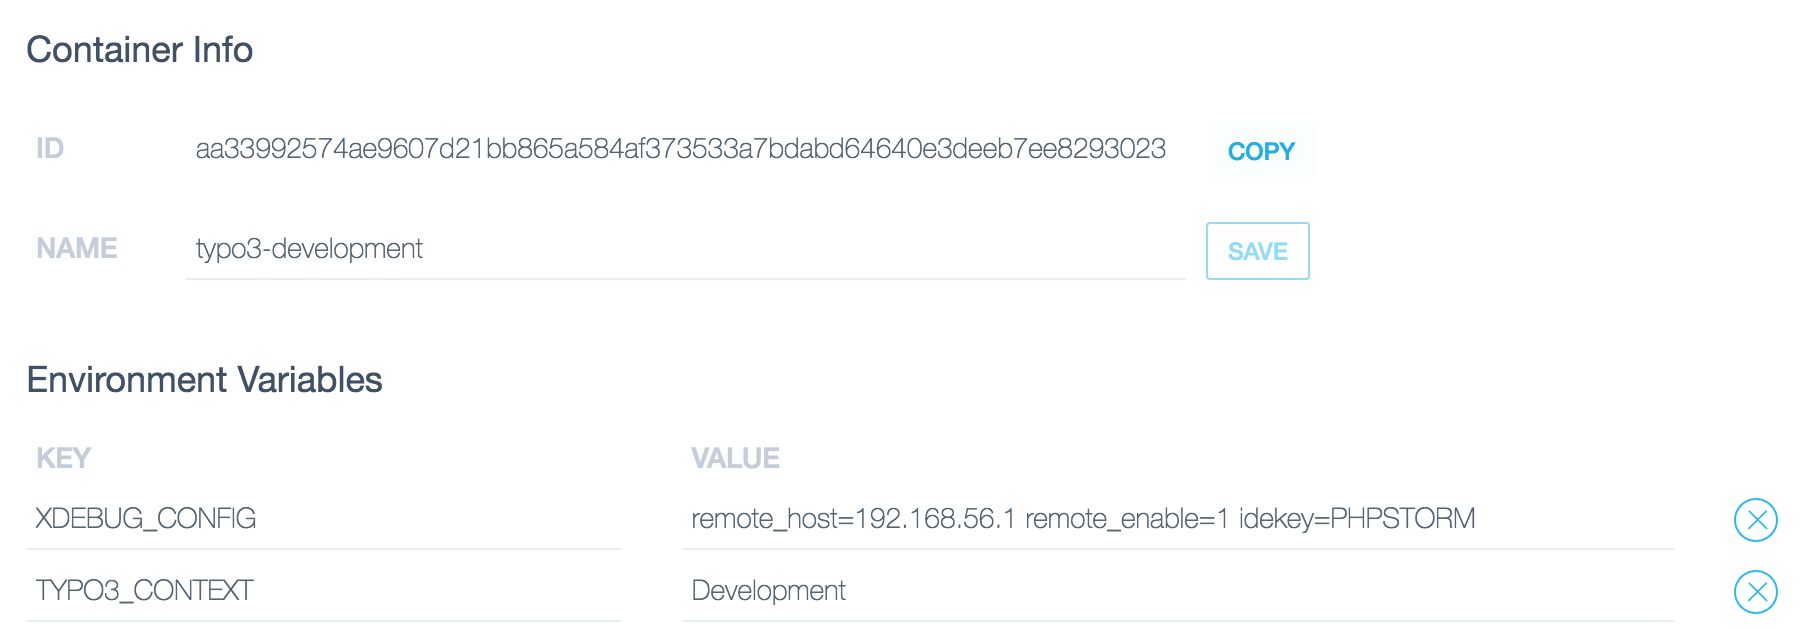
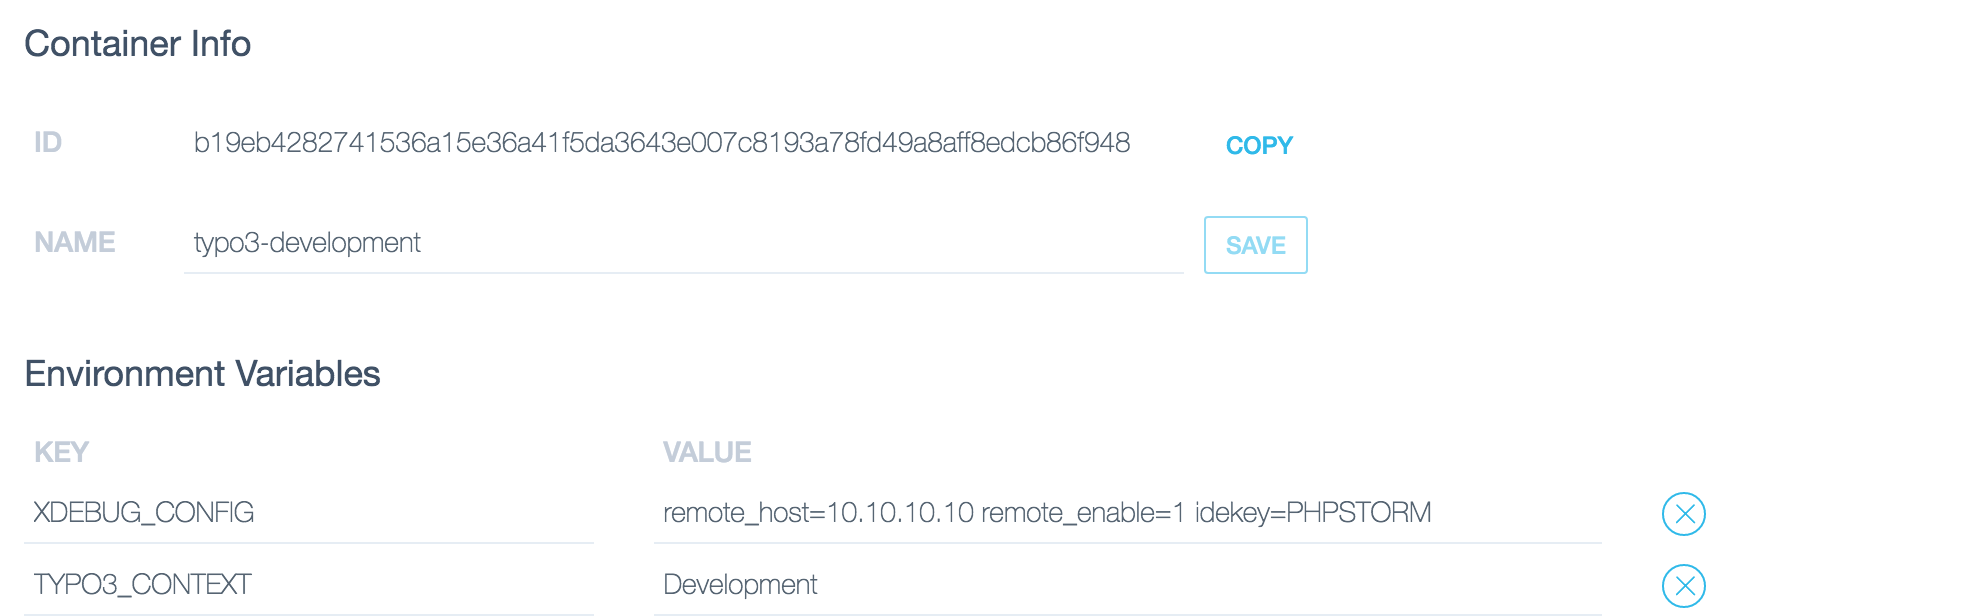
Permanent IP documentation

diff --git a/README.md b/README.md
@@ -88,7 +88,7 @@ it repeatedly.
 
 Use the IP of your host and the session key of your IDE.
 
-* XDEBUG_CONFIG: 'remote_host=192.168.56.1 remote_enable=1 idekey=PHPSTORM'
+* XDEBUG_CONFIG: 'remote_host=10.10.10.10 remote_enable=1 idekey=PHPSTORM'
 * TYPO3_CONTEXT: Development
 
 ![environment](https://raw.githubusercontent.com/elmar-hinz/TYPO3.docker-development/master/img/environment.png)
@@ -142,9 +142,10 @@ Xdebug with PHPStorm
 
 The setting of the environment variable is alpha and omega.
 
-* XDEBUG_CONFIG: 'remote_host=192.168.56.1 remote_enable=1 idekey=PHPSTORM'
+* XDEBUG_CONFIG: 'remote_host=10.10.10.10 remote_enable=1 idekey=PHPSTORM'
 
-Call *ifconfig* to find out the IP of your machine.
+Call *ifconfig* to find out the IP of your machine. See the Appendix for how
+to set up a permanent IP for your local machine.
 
 In PHPStorm there is a button looking like an ancient Telephone
 *"Start listening for PHP debug connections"*.
@@ -168,4 +169,30 @@ inside the container to the path of the script on your local machine.
 Happy debugging!
 
 ![debugger](https://raw.githubusercontent.com/elmar-hinz/TYPO3.docker-development/master/img/debugger.png)
+
+Appendix
+--------
+
+### Permanent IP for the local machine within dynamic networks
+
+In dynamic networks the IP of the local machine is changing. Yet you need a
+permanent IP to point Xdebug to. Maybe your DB also stays on the local machine.
+
+Private address spaces:
+
+    10.0.0.0        -   10.255.255.255  (10/8 prefix)
+    172.16.0.0      -   172.31.255.255  (172.16/12 prefix)
+    192.168.0.0     -   192.168.255.255 (192.168/16 prefix)
+
+See: [RFC 1918](https://tools.ietf.org/html/rfc1918)
+
+An option is to permanently bind an alias to the local loopback device.
+The local loopback device is always up, even if the machine is disconnected.
+
+[This plist file](https://github.com/elmar-hinz/TYPO3.docker-development/blob/master/alias.lo0.10.10.10.10.plist)
+does the job for the IP 10.10.10.10.
+
+Install it into _/Library/LaunchDaemons/_ as _root:wheel_ with rights set to
+_644_.
+
 
